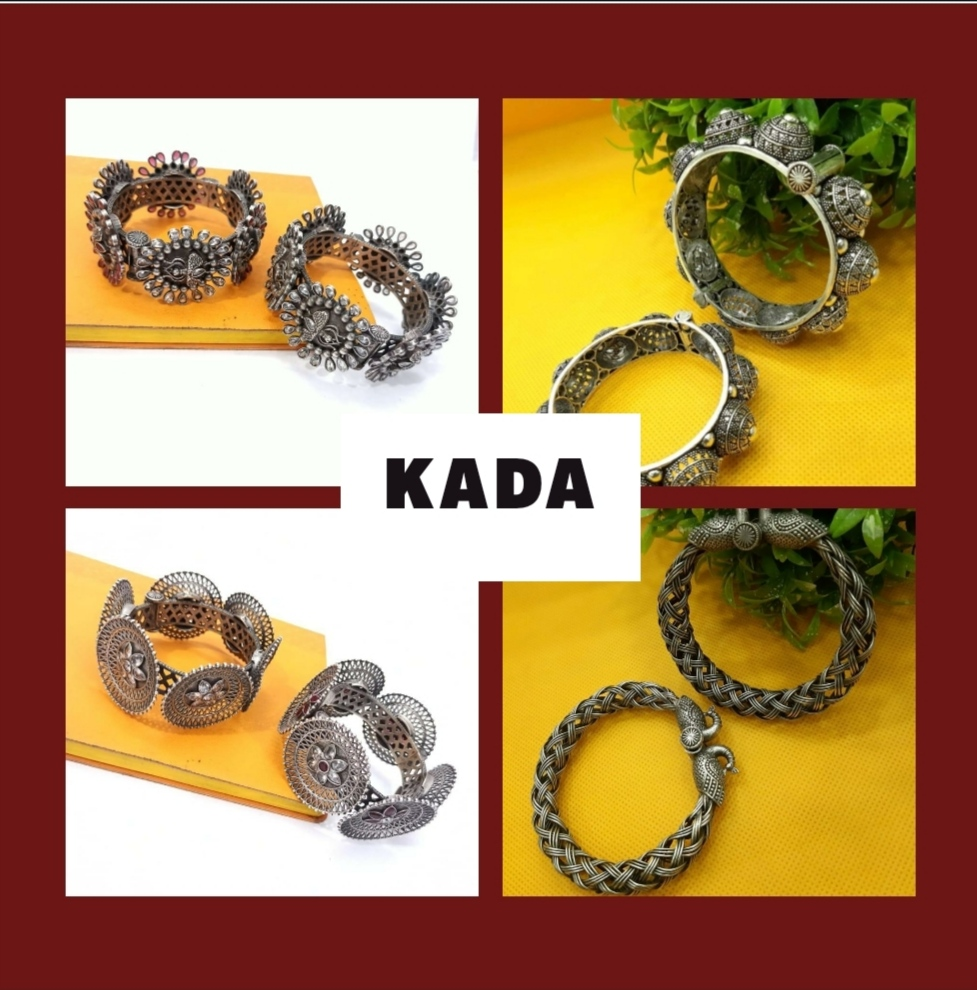
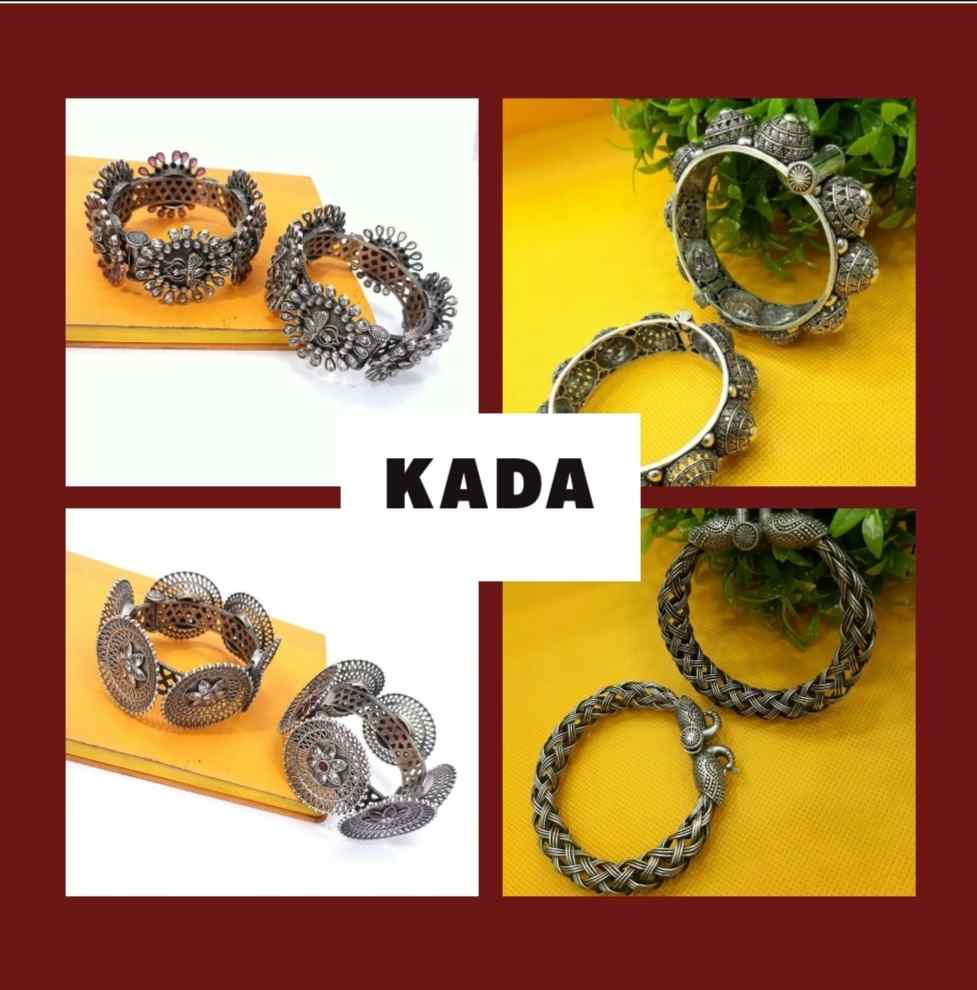
png o jpg

diff --git a/index.html b/index.html
@@ -64,7 +64,7 @@
             <div class="header_bottom">
                 <div class="logo">
                     <h1>
-                        <a href="index.html"><img src="H4UIMG/H4UH4U/GNYS/logo.png"></img>
+                        <a href="index.html"><img src="H4UIMG/H4UH4U/GNYS/logo.jpg"></img>
                         </a>
                     </h1>
                 </div>
@@ -167,7 +167,7 @@
                     <!-- Wrapper for slides -->
                     <div class="carousel-inner">
                         <div class="item active">
-                            <a href="NewYearSale2021Necklace.html"> <img src="H4UIMG/H4UH4U/GNYS/Slide/1.png" alt="Handpicked" style="width:100%;">
+                            <a href="NewYearSale2021Necklace.html"> <img src="H4UIMG/H4UH4U/GNYS/Slide/1.jpg" alt="Handpicked" style="width:100%;">
                                 <div class="carousel-caption">
                                     <h3 class="carouseldesc"></h3>
                                     <p class="carouseldesc"></p>
@@ -177,7 +177,7 @@
 
 
                         <div class="item">
-                            <a href="NewYearSaleEarrings500.html"></a> <img src="H4UIMG/H4UH4U/GNYS/Slide/2.png" alt="Handpicked" style="width:100%;">
+                            <a href="NewYearSaleEarrings500.html"></a> <img src="H4UIMG/H4UH4U/GNYS/Slide/2.jpg" alt="Handpicked" style="width:100%;">
                             <div class="carousel-caption">
                                 <h3 class="carouseldesc"></h3>
                                 <p class="carouseldesc"></p>
@@ -185,7 +185,7 @@
                             </a>
                         </div>
                         <div class="item">
-                            <a href="VideoBirdCage.html"></a> <img src="H4UIMG/H4UH4U/GNYS/Slide/3.png" alt="Handpicked" style="width:100%;">
+                            <a href="VideoBirdCage.html"></a> <img src="H4UIMG/H4UH4U/GNYS/Slide/3.jpg" alt="Handpicked" style="width:100%;">
                             <div class="carousel-caption">
                                 <h3 class="carouseldesc"></h3>
                                 <p class="carouseldesc"></p>
@@ -193,7 +193,7 @@
                             </a>
                         </div>
                         <div class="item">
-                            <a href="$$MulMulCottonSalwar.html"></a> <img src="H4UIMG/H4UH4U/GNYS/Slide/4.png" alt="Handpicked" style="width:100%;">
+                            <a href="$$MulMulCottonSalwar.html"></a> <img src="H4UIMG/H4UH4U/GNYS/Slide/4.jpg" alt="Handpicked" style="width:100%;">
                             <div class="carousel-caption">
                                 <h3 class="carouseldesc"></h3>
                                 <p class="carouseldesc"></p>
@@ -201,7 +201,7 @@
                             </a>
                         </div>
                         <div class="item">
-                            <a href="NewYearSale2021Necklace.html"></a> <img src="H4UIMG/H4UH4U/GNYS/Slide/5.png" alt="Handpicked" style="width:100%;">
+                            <a href="NewYearSale2021Necklace.html"></a> <img src="H4UIMG/H4UH4U/GNYS/Slide/5.jpg" alt="Handpicked" style="width:100%;">
                             <div class="carousel-caption">
                                 <h3 class="carouseldesc"></h3>
                                 <p class="carouseldesc"></p>
@@ -209,7 +209,7 @@
                             </a>
                         </div>
                         <div class="item">
-                            <a href="NewYearSaleJewelry.html"></a> <img src="H4UIMG/H4UH4U/GNYS/Slide/6.png" alt="Handpicked" style="width:100%;">
+                            <a href="NewYearSaleJewelry.html"></a> <img src="H4UIMG/H4UH4U/GNYS/Slide/6.jpg" alt="Handpicked" style="width:100%;">
                             <div class="carousel-caption">
                                 <h3 class="carouseldesc"></h3>
                                 <p class="carouseldesc"></p>
@@ -217,7 +217,7 @@
                             </a>
                         </div>
                         <div class="item">
-                            <a href="NewYearSale2021Necklace.html"></a> <img src="H4UIMG/H4UH4U/GNYS/Slide/7.png" alt="Handpicked" style="width:100%;">
+                            <a href="NewYearSale2021Necklace.html"></a> <img src="H4UIMG/H4UH4U/GNYS/Slide/7.jpg" alt="Handpicked" style="width:100%;">
                             <div class="carousel-caption">
                                 <h3 class="carouseldesc"></h3>
                                 <p class="carouseldesc"></p>
@@ -225,7 +225,7 @@
                             </a>
                         </div>
                         <div class="item">
-                            <a href="$ChanderiSilk.html"></a> <img src="H4UIMG/H4UH4U/GNYS/Slide/8.png" alt="Handpicked" style="width:100%;">
+                            <a href="$ChanderiSilk.html"></a> <img src="H4UIMG/H4UH4U/GNYS/Slide/8.jpg" alt="Handpicked" style="width:100%;">
                             <div class="carousel-caption">
                                 <h3 class="carouseldesc"></h3>
                                 <p class="carouseldesc"></p>
@@ -258,7 +258,7 @@
             <li class="col-sm-4">
                 <a href="NewYearSale$$GotaPattiSalwar.html" class="item-link" title="">
                     <div class="bannerBox">
-                        <img src="H4UIMG/H4UH4U/GNYS/salwar/gps1300.png" class="item-img" title="" alt="" width="100%" height="100%">
+                        <img src="H4UIMG/H4UH4U/GNYS/salwar/gps1300.jpg" class="item-img" title="" alt="" width="100%" height="100%">
                     </div>
                 </a>
             </li>
@@ -266,7 +266,7 @@
             <li class="col-sm-4">
                 <a href="NewYearSale$$MMCH999.html" class="item-link" title="">
                     <div class="bannerBox">
-                        <img src="H4UIMG/H4UH4U/GNYS/salwar/hbp999.png" class="item-img" title="" alt="" width="100%" height="100%">
+                        <img src="H4UIMG/H4UH4U/GNYS/salwar/hbp999.jpg" class="item-img" title="" alt="" width="100%" height="100%">
 
                     </div>
                 </a>
@@ -274,7 +274,7 @@
             <li class="col-sm-4">
                 <a href="NewYearSale$$ChanderiSilk1500.html" class="item-link" title="">
                     <div class="bannerBox">
-                        <img src="H4UIMG/H4UH4U/GNYS/salwar/chanderi.png" class="item-img" title="" alt="" width="100%" height="100%">
+                        <img src="H4UIMG/H4UH4U/GNYS/salwar/chanderi.jpg" class="item-img" title="" alt="" width="100%" height="100%">
 
                     </div>
                 </a>
@@ -309,7 +309,7 @@
             <li class="col-sm-4">
                 <a href="NewYearSale$$CottonCombo850.html" class="item-link" title="">
                     <div class="bannerBox">
-                        <img src="H4UIMG/H4UH4U/GNYS/salwar/cf999.png" class="item-img" title="" alt="" width="100%" height="100%">
+                        <img src="H4UIMG/H4UH4U/GNYS/salwar/cf999.jpg" class="item-img" title="" alt="" width="100%" height="100%">
 
                     </div>
                 </a>
@@ -317,7 +317,7 @@
             <li class="col-sm-4">
                 <a href="NewYearSale$$MMC999.html" class="item-link" title="">
                     <div class="bannerBox">
-                        <img src="H4UIMG/H4UH4U/GNYS/salwar/hbmmc999.png" class="item-img" title="" alt="" width="100%" height="100%">
+                        <img src="H4UIMG/H4UH4U/GNYS/salwar/hbmmc999.jpg" class="item-img" title="" alt="" width="100%" height="100%">
 
                     </div>
                 </a>
@@ -325,7 +325,7 @@
             <li class="col-sm-4">
                 <a href="$$MaheshwariSilkSalwar.html" class="item-link" title="">
                     <div class="bannerBox">
-                        <img src="H4UIMG/H4UH4U/GNYS/salwar/maheshwari.png" class="item-img" title="" alt="" width="100%" height="100%">
+                        <img src="H4UIMG/H4UH4U/GNYS/salwar/maheshwari.jpg" class="item-img" title="" alt="" width="100%" height="100%">
 
                     </div>
                 </a>
@@ -361,7 +361,7 @@
             <li class="col-sm-4">
                 <a href="GNYSAjrakhChanderiSaree.html" class="item-link" title="">
                     <div class="bannerBox">
-                        <img src="H4UIMG/H4UH4U/GNYS/saree/ajrakh.png" class="item-img" title="" alt="" width="100%" height="100%">
+                        <img src="H4UIMG/H4UH4U/GNYS/saree/ajrakh.jpg" class="item-img" title="" alt="" width="100%" height="100%">
                         <!-- <div class="item-html">
                             <button>Linen Cotton@ &#8377;1400</button>
                         </div> -->
@@ -371,7 +371,7 @@
             <li class="col-sm-4">
                 <a href="$PLinenCotton.html" class="item-link" title="">
                     <div class="bannerBox">
-                        <img src="H4UIMG/H4UH4U/GNYS/saree/linencotton.png" class="item-img" title="" alt="" width="100%" height="100%">
+                        <img src="H4UIMG/H4UH4U/GNYS/saree/linencotton.jpg" class="item-img" title="" alt="" width="100%" height="100%">
                         <!-- <div class="item-html">
                             <button>Linen Cotton@ &#8377;1400</button>
                         </div> -->
@@ -381,7 +381,7 @@
             <li class="col-sm-4">
                 <a href="$KotaSilkSaree.html" class="item-link" title="">
                     <div class="bannerBox">
-                        <img src="H4UIMG/H4UH4U/GNYS/saree/kotasilk.png" class="item-img" title="" alt="" width="100%" height="100%">
+                        <img src="H4UIMG/H4UH4U/GNYS/saree/kotasilk.jpg" class="item-img" title="" alt="" width="100%" height="100%">
                         <!-- <div class="item-html">
                             <button>Kota Silk @ &#8377;2499</button>
                         </div> -->
@@ -391,7 +391,7 @@
             <li class="col-sm-4">
                 <a href="$PKChennurSilk.html" class="item-link" title="">
                     <div class="bannerBox">
-                        <img src="H4UIMG/H4UH4U/GNYS/saree/penkalamkari.png" class="item-img" title="" alt="" width="100%" height="100%">
+                        <img src="H4UIMG/H4UH4U/GNYS/saree/penkalamkari.jpg" class="item-img" title="" alt="" width="100%" height="100%">
                         <!-- <div class="item-html">
                             <button>
                                                     @ &#8377;1300
@@ -403,7 +403,7 @@
             <li class="col-sm-4">
                 <a href="NewYearSaleSoftSilk.html" class="item-link" title="">
                     <div class="bannerBox">
-                        <img src="H4UIMG/H4UH4U/GNYS/saree/softsilk.png" class="item-img" title="" alt="" width="100%" height="100%">
+                        <img src="H4UIMG/H4UH4U/GNYS/saree/softsilk.jpg" class="item-img" title="" alt="" width="100%" height="100%">
                         <!-- <div class="item-html">
                             <button>Linen Cotton@ &#8377;1400</button>
                         </div> -->
@@ -417,7 +417,7 @@
             <div class="container">
                 <a href="GrandNewYearSale2021.html" class="item-link" title="">
                     <div class="bannerBox">
-                        <img src="H4UIMG/H4UH4U/GNYS/bannerGNYS.png" class="item-img" title="" alt="" width="100%" height="100%">
+                        <img src="H4UIMG/H4UH4U/GNYS/bannerGNYS.jpg" class="item-img" title="" alt="" width="100%" height="100%">
                     </div>
                 </a>
             </div>
